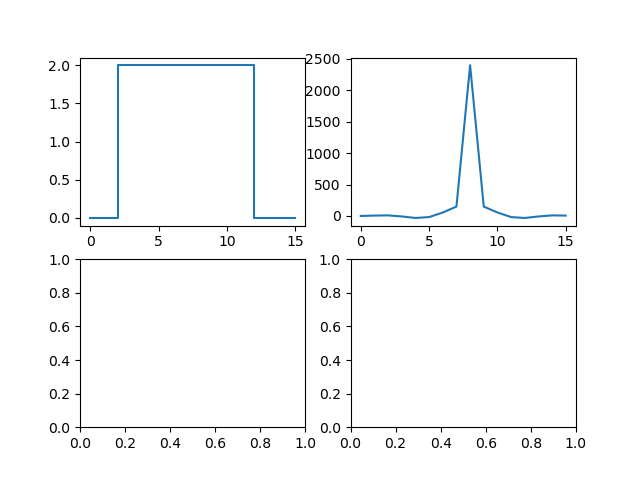
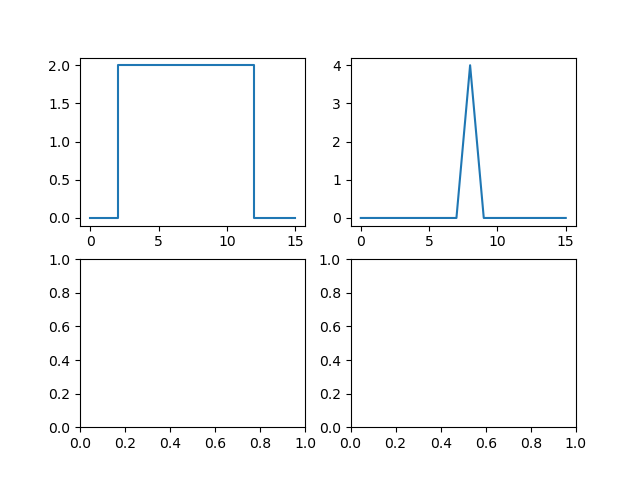
.py brute force update

diff --git a/pybruteforce/stepfn.py b/pybruteforce/stepfn.py
@@ -1,4 +1,5 @@
 import numpy as np, matplotlib.pyplot as plt
+from cmath import exp,pi
 #test fn: step fn; create fn using np arrays
 n=16
 x = np.arange(0,n,1)
@@ -6,11 +7,12 @@ y =np.zeros(n)
 for i in np.arange(3,13,1):
     y[i] = 2
 #calculate convolution of step fn (F is fourier) 
-t_fftfreq = np.fft.fftfreq(n,d = 1/x.size)
+#t[0] = exp(-2*pi*x[1]),....t[n]= exp(-2*pi*x[n]) 
+# print(t)
 x_fft = np.fft.fft(x)
-t_fft = x_fft * t_fftfreq#--->g(t)
+t_fft = x_fft * exp(-2*pi)
 y_fft = np.fft.fft(y)#--->f(x)
-ytfft = y_fft * x_fft #---> F(f*g) = Ff * Fg ---->convolution 
+ytfft = y_fft * t_fft #---> F(f*g) = Ff * Fg ---->convolution 
 Fyt = np.fft.ifftshift(np.round(np.real(ytfft)))#--->ifftshift [inverse fftshift]: shifts zero freq component 2 centre of spectrum
 
 #add guassian noise
